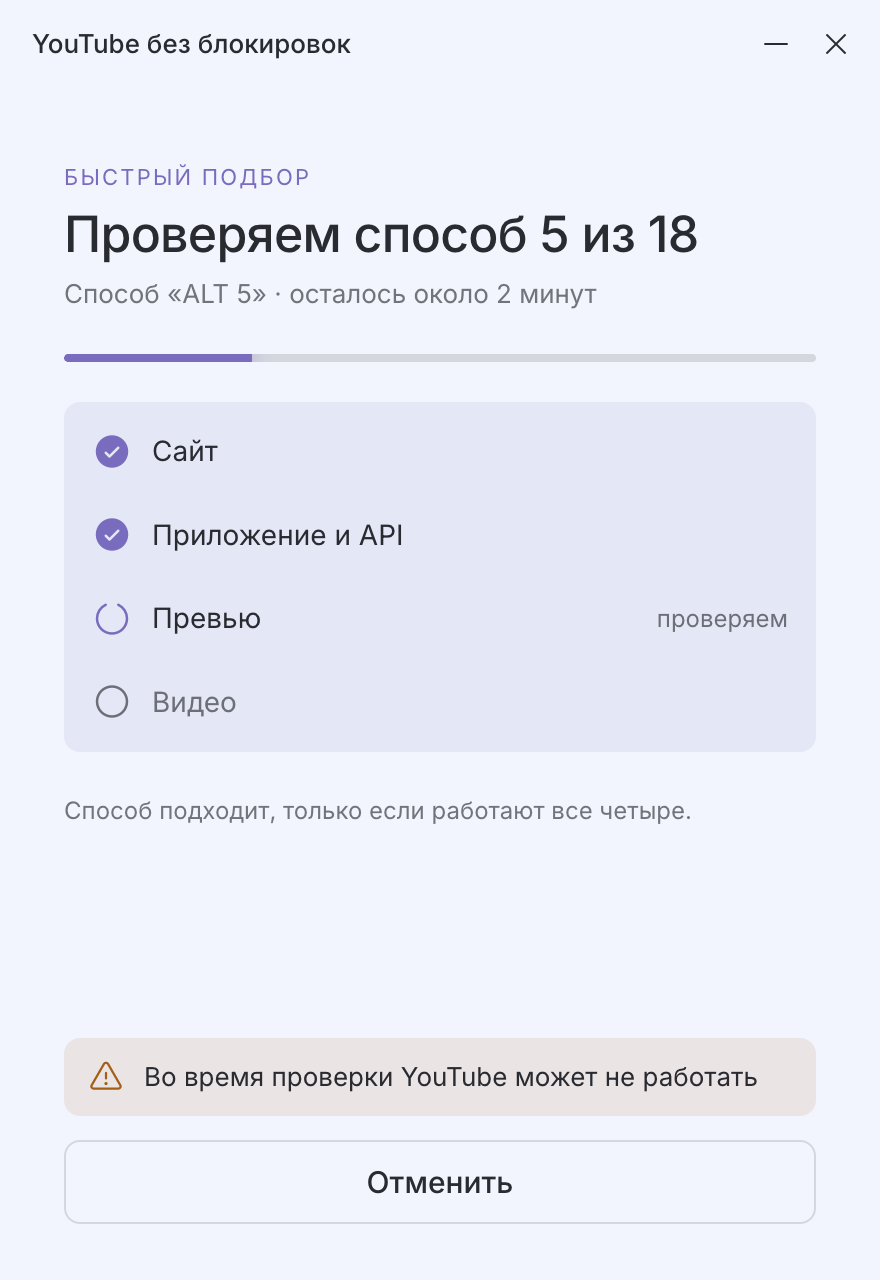
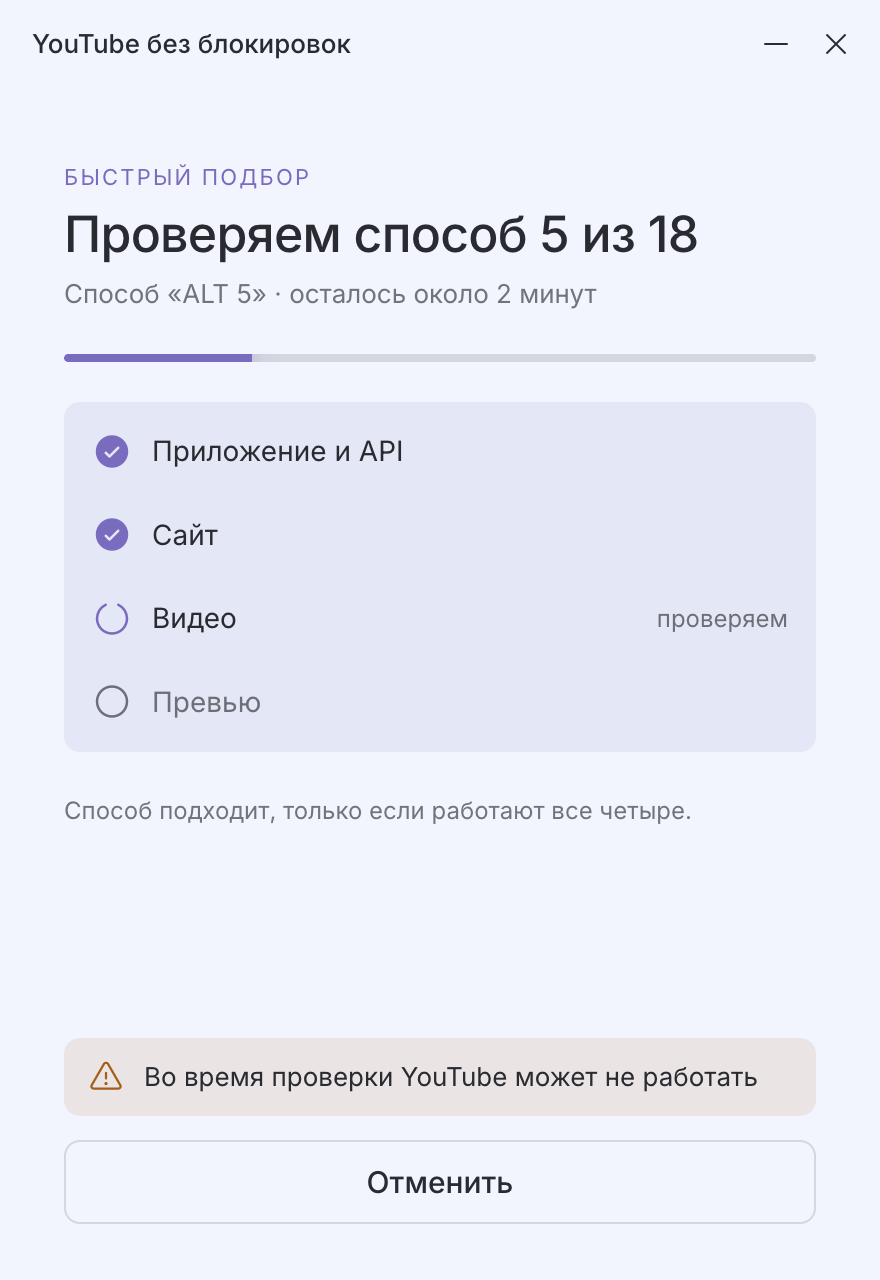
UI: B1 порядок хостов из hosts[], B2/B3 индикатор операции (без ревью)

diff --git a/app/renderer/app.js b/app/renderer/app.js
@@ -2,6 +2,8 @@ import T from './i18n/ru.js';
 
 const HELP_URL = 'https://github.com/ytunblock/ytunblock#readme';
 const HOST_KEYS = ['site', 'api', 'thumbs', 'video'];
+// order the helper checks hosts in; the quick-select list follows hosts[] when present
+const CHECK_ORDER = ['api', 'site', 'video', 'thumbs'];
 const NET_ICONS = { wifi: 'ph-wifi-high', mobile: 'ph-cell-signal-high', ethernet: 'ph-network', other: 'ph-globe-simple' };
 const ONBOARDING = new Set(['welcome', 'installing', 'err-auth', 'err-missing', 'err-firewall', 'error']);
 
@@ -195,11 +197,10 @@ const screens = {
       const sub = T.quickSub(p.current, fmtQuickEta(p.etaSec));
       heading = `<h3>${esc(T.quickTitle(Math.min(p.done + 1, p.total), p.total))}</h3>${sub ? `<div class="small quick-sub">${esc(sub)}</div>` : ''}`;
     }
-    const hosts = (p && p.hosts) || HOST_KEYS.map((key) => ({ key, ok: null }));
-    const firstPending = p && p.hosts && !p.hosts.some((h) => h.ok === false) ? p.hosts.findIndex((h) => h.ok === null) : -1;
-    const rows = HOST_KEYS.map((key) => {
-      const i = hosts.findIndex((h) => h.key === key);
-      const h = hosts[i] || { ok: null };
+    const hosts = (p && p.hosts && p.hosts.filter((h) => T.hosts[h.key])) || CHECK_ORDER.map((key) => ({ key, ok: null }));
+    const firstPending = p && p.hosts && !hosts.some((h) => h.ok === false) ? hosts.findIndex((h) => h.ok === null) : -1;
+    const rows = hosts.map((h, i) => {
+      const key = h.key;
       const label = `<span class="grow">${esc(T.hosts[key])}</span>`;
       if (h.ok === true) return `<div class="host-row">${fillIcon('ph-check-circle')}${label}</div>`;
       if (h.ok === false) return `<div class="host-row failed">${icon('ph-x-circle')}${label}<span class="small">${esc(T.hostFailed)}</span></div>`;
@@ -295,7 +296,9 @@ const screens = {
     const selecting = svc === 'selecting';
     const on = svc === 'on' || svc === 'broken';
     let center;
-    if (svc === 'on') {
+    if (S.busy === 'enable' || S.busy === 'disable') {
+      center = `<div class="center main">${ringBadge('ph-power', 30, 'lg', 'spin')}<h1>${esc(S.busy === 'enable' ? T.enabling : T.disabling)}</h1><p class="lead">${esc(T.opWait)}</p></div>`;
+    } else if (svc === 'on') {
       center = `<div class="center main glow">${badge('ph-check', 'lg accent glow')}<h1>${esc(T.statusOn)}</h1><p class="lead">${esc(T.statusOnLead)}</p></div>`;
     } else if (svc === 'broken') {
       center = `<div class="center main">${badge('ph-warning', 'lg warn')}<h1>${esc(T.statusBroken)}</h1><p class="lead">${esc(T.statusBrokenLead)}</p>
@@ -326,13 +329,13 @@ const screens = {
     const netIcon = NET_ICONS[net ? net.kind : 'other'] || NET_ICONS.other;
     const protection = selecting
       ? `<div class="card-row dim"><span class="stack tight"><span class="t strong">${esc(T.protection)}</span><span class="s">${esc(T.protectionPaused)}</span></span>${toggle('toggle', false, { disabled: true })}</div>`
-      : `<div class="card-row"><span class="label strong">${esc(T.protection)}</span>${toggle('toggle', on, { shine: true, disabled: S.busy === 'toggle' })}</div>`;
+      : `<div class="card-row"><span class="label strong">${esc(T.protection)}</span>${toggle('toggle', S.busy === 'enable' || (on && S.busy !== 'disable'), { shine: true, disabled: !!S.busy })}</div>`;
     const banner = noStrategy && net && !selecting
       ? `<div class="banner">${icon(netIcon)}<span class="stack"><span class="t">${esc(T.newNetTitle)}</span><span class="s">${esc(T.newNetSub(net.label))}</span></span>${btn('select-quick', T.selectShort, 'btn-primary')}</div>`
       : '';
     const actions = svc === 'broken' || selecting ? '' : `<div class="row-btns">
-        ${btn('check', T.checkNow, 'btn-secondary btn-md', 'ph-arrows-clockwise')}
-        ${btn('select-quick', noStrategy ? T.selectShort : T.reselect, 'btn-secondary btn-md', 'ph-magic-wand')}
+        ${btn('check', T.checkNow, 'btn-secondary btn-md', 'ph-arrows-clockwise', !!S.busy)}
+        ${btn('select-quick', noStrategy ? T.selectShort : T.reselect, 'btn-secondary btn-md', 'ph-magic-wand', !!S.busy)}
       </div>`;
     return `${titlebar({ gear: true })}${banner}${center}
       <div class="main-foot">
@@ -352,15 +355,18 @@ const screens = {
     let adv = '';
     if (set.advanced) {
       const current = st.strategy ? st.strategy.id : '';
+      const shown = S.busy === 'apply' ? S.applyingId : current;
       const list = S.strategies || [];
       const options = (current ? '' : `<option value="" selected>${esc(T.strategyNone)}</option>`) + list.map((s) => {
         const notes = [s.id === current && T.strategyCurrent, s.exact === false && T.strategyApprox].filter(Boolean).join(', ');
-        return `<option value="${esc(s.id)}"${s.id === current ? ' selected' : ''}>${esc(s.name)}${notes ? ' — ' + esc(notes) : ''}</option>`;
+        return `<option value="${esc(s.id)}"${s.id === shown ? ' selected' : ''}>${esc(s.name)}${notes ? ' — ' + esc(notes) : ''}</option>`;
       }).join('');
       const cur = list.find((s) => s.id === current);
       adv = `<div class="adv">
         <div class="field"><label for="strategy">${esc(T.strategyFor(st.network && st.network.label))}</label>
-          <div class="select-wrap"><select id="strategy" class="input" data-change="apply-strategy"${st.service === 'selecting' ? ' disabled' : ''}>${options}</select>${icon('ph-caret-up-down')}</div></div>
+          <div class="select-wrap"><select id="strategy" class="input" data-change="apply-strategy"${st.service === 'selecting' || S.busy === 'apply' ? ' disabled' : ''}>${options}</select>${icon('ph-caret-up-down')}</div>
+          ${S.busy === 'apply' ? `<div class="op-note">${icon('ph-circle-notch', 'spin')}${esc(T.applying)}</div>`
+            : S.applied ? `<div class="op-note done">${fillIcon('ph-check-circle')}${esc(T.applied)}</div>` : ''}</div>
         ${cur && cur.args ? `<div class="field"><label>${esc(T.params)}</label><div class="sunk">${esc(cur.args)}</div></div>` : ''}
         <div class="field"><label>${esc(T.log)}</label><div class="sunk log" id="log">${esc(S.log || T.logEmpty)}</div></div>
         ${btn('copy-report', T.copyReport, 'btn-secondary btn-md', 'ph-copy')}
@@ -552,6 +558,7 @@ const actions = {
   'cancel-close': () => go(S.prevScreen || 'main'),
   back: () => go(S.screen === 'limits' && S.cameFromSettings ? 'settings' : 'main'),
   settings: async () => {
+    S.applied = false;
     S.settings = await window.api.getSettings();
     if (S.settings.advanced) await loadAdvanced();
     go('settings');
@@ -581,10 +588,11 @@ const actions = {
     const st = S.state;
     const on = st.service === 'on' || st.service === 'broken';
     if (!on && !st.strategy) return runCheck('toggle');
-    S.busy = 'toggle';
+    S.busy = on ? 'disable' : 'enable';
     render();
     try {
       await window.api.setEnabled(!on);
+      S.state = await window.api.getState();
     } catch (e) {
       S.busy = null;
       return showError(e);
@@ -633,14 +641,22 @@ app.addEventListener('click', (ev) => {
 
 app.addEventListener('change', async (ev) => {
   if (ev.target.dataset.change !== 'apply-strategy' || !ev.target.value) return;
+  S.busy = 'apply';
+  S.applied = false;
+  const id = ev.target.value;
+  S.applyingId = id;
+  render();
   try {
-    await window.api.applyStrategy(ev.target.value);
+    await window.api.applyStrategy(id);
     S.state = await window.api.getState();
     S.log = await window.api.getLog(200);
-    toast(T.applied);
   } catch (e) {
-    showError(e);
+    S.busy = null;
+    return showError(e);
   }
+  S.busy = null;
+  S.applied = true;
+  render();
 });
 
 document.addEventListener('keydown', (ev) => {

diff --git a/app/scripts/screenshots.js b/app/scripts/screenshots.js
@@ -39,6 +39,15 @@ const SHOTS = [
     id: '6b-advanced', scenario: 'on', steps: [click('settings'), click('advanced'), waitText('Журнал событий'),
       async (p) => p.evaluate(() => { const s = document.getElementById('scroll'); s.scrollTop = document.querySelector('.adv').offsetTop - 60; })],
   },
+  { id: '5f-disabling', scenario: 'on', speed: 0.01, steps: [click('toggle'), waitText('Выключаем')] },
+  {
+    id: '6c-applying', scenario: 'on', speed: 0.01, steps: [click('settings'), click('advanced'), waitText('Журнал событий'),
+      async (p) => p.selectOption('#strategy', 'flowseal-general-alt11'), waitText('Применяем способ')],
+  },
+  {
+    id: '6d-applied', scenario: 'on', speed: 5, steps: [click('settings'), click('advanced'), waitText('Журнал событий'),
+      async (p) => p.selectOption('#strategy', 'flowseal-general-alt11'), async (p) => p.locator('.op-note.done').waitFor()],
+  },
   { id: '8a-limits', scenario: 'on', steps: [click('settings'), click('limits'), waitText('Что приложение не умеет')] },
   { id: 'x-close-warn', scenario: 'selecting-on-start', speed: 0.01, env: { YTU_TRAY: '0' }, steps: [waitText('Проверяем способ 5'), click('close'), waitText('Подбор продолжится')] },
   { id: 'x-error', scenario: 'helper-fail', speed: 4, steps: [click('recheck-select'), waitText('Что-то пошло не так')] },

diff --git a/app/main/services/mock.js b/app/main/services/mock.js
@@ -6,11 +6,12 @@
 
 const { EventEmitter } = require('events');
 
+// same order as the real helper checks them (hardest first)
 const HOSTS = [
-  { key: 'site', host: 'www.youtube.com' },
   { key: 'api', host: 'youtubei.googleapis.com' },
-  { key: 'thumbs', host: 'i.ytimg.com' },
+  { key: 'site', host: 'www.youtube.com' },
   { key: 'video', host: 'rr3---sn-n8v7kn7r.googlevideo.com' },
+  { key: 'thumbs', host: 'i.ytimg.com' },
 ];
 
 const STRATEGIES = [
@@ -217,7 +218,7 @@ class MockService extends EventEmitter {
     if (!this.st.installed) fail('NOT_INSTALLED');
     if (this.run) fail('BUSY');
     if (on && !this.st.strategy) fail('HELPER_FAILED');
-    await this.delay(400);
+    await this.delay(1500); // pkexec + systemd
     this.log(on ? `служба запущена, способ ${this.st.strategy.name}` : 'служба остановлена');
     this.update({ service: on ? 'on' : 'off' });
   }
@@ -358,7 +359,7 @@ class MockService extends EventEmitter {
     if (this.run) fail('BUSY');
     const s = STRATEGIES.find((x) => x.id === id);
     if (!s) fail('HELPER_FAILED');
-    await this.delay(500);
+    await this.delay(1200);
     this.strategyByNet[this.network.id] = { id: s.id, name: s.name, selectedAt: new Date().toISOString() };
     this.syncStrategy();
     this.log(`способ выбран вручную: ${s.name}`);

diff --git a/app/renderer/i18n/ru.js b/app/renderer/i18n/ru.js
@@ -151,6 +151,10 @@ export default {
   copyReport: 'Скопировать отчёт для поддержки',
   copied: 'Скопировано',
   applied: 'Способ применён',
+  applying: 'Применяем способ…',
+  enabling: 'Включаем…',
+  disabling: 'Выключаем…',
+  opWait: 'Это займёт несколько секунд',
   uninstall: 'Удалить приложение из системы',
   uninstalling: 'Удаляем…',
   uninstallHint: 'Понадобится пароль администратора',

diff --git a/app/renderer/styles.css b/app/renderer/styles.css
@@ -310,3 +310,6 @@ code, .mono { font-family: var(--font-mono); }
 }
 @keyframes toast-in { from { opacity: 0; transform: translate(-50%, 6px); } }
 .quick-sub { font-size: 13px; }
+.op-note { display: flex; align-items: center; gap: 6px; margin-top: 6px; font-size: 12px; color: var(--x-muted); }
+.op-note > .ph, .op-note > .ph-fill { font-size: 14px; color: var(--color-accent); }
+.op-note.done { color: var(--x-tint-text); }

diff --git a/docs/bugs.md b/docs/bugs.md
@@ -4,7 +4,7 @@
 
 ## Открытые
 
-### B1 · быстрый подбор, экран прогресса · open
+### B1 · быстрый подбор, экран прогресса · fixed (ждёт проверки на ноуте)
 Среда: Manjaro GNOME, ноут, v0.1.0 (e36b229).
 Список хостов в UI: Сайт, Приложение/API, Превью, Видео — но подсветка прогресса начинается со
 второго пункта, а не с «Сайт».
@@ -13,13 +13,13 @@
 site/api/thumbs/video → первым активен `api`. Решение: либо UI рисует в порядке проверки из
 `hosts[]`, либо helper проверяет в порядке UI.
 
-### B2 · расширенный режим, ручной выбор способа · open (UX)
+### B2 · расширенный режим, ручной выбор способа · fixed (ждёт проверки на ноуте)
 Среда: та же. После выбора способа из списка нет явного подтверждения, что он применён и
 сервис перезапущен — пользователь не был уверен и вручную выключил/включил. По логам применение
 сработало само (apply → перезапуск за ~1 с). Нужно: короткое подтверждение «Способ применён» /
 индикатор на время перезапуска.
 
-### B3 · главный экран, переключатель Вкл/Выкл · open (UX)
+### B3 · главный экран, переключатель Вкл/Выкл · fixed (ждёт проверки на ноуте)
 Среда: та же. Пока идёт включение/выключение (pkexec + systemd, несколько секунд), переключатель
 заблокирован, но больше ничего не меняется — приложение выглядит зависшим. Нужен индикатор
 процесса на месте блока текущего статуса: лоадер/прогресс и текст «Включаем…» / «Выключаем…».
